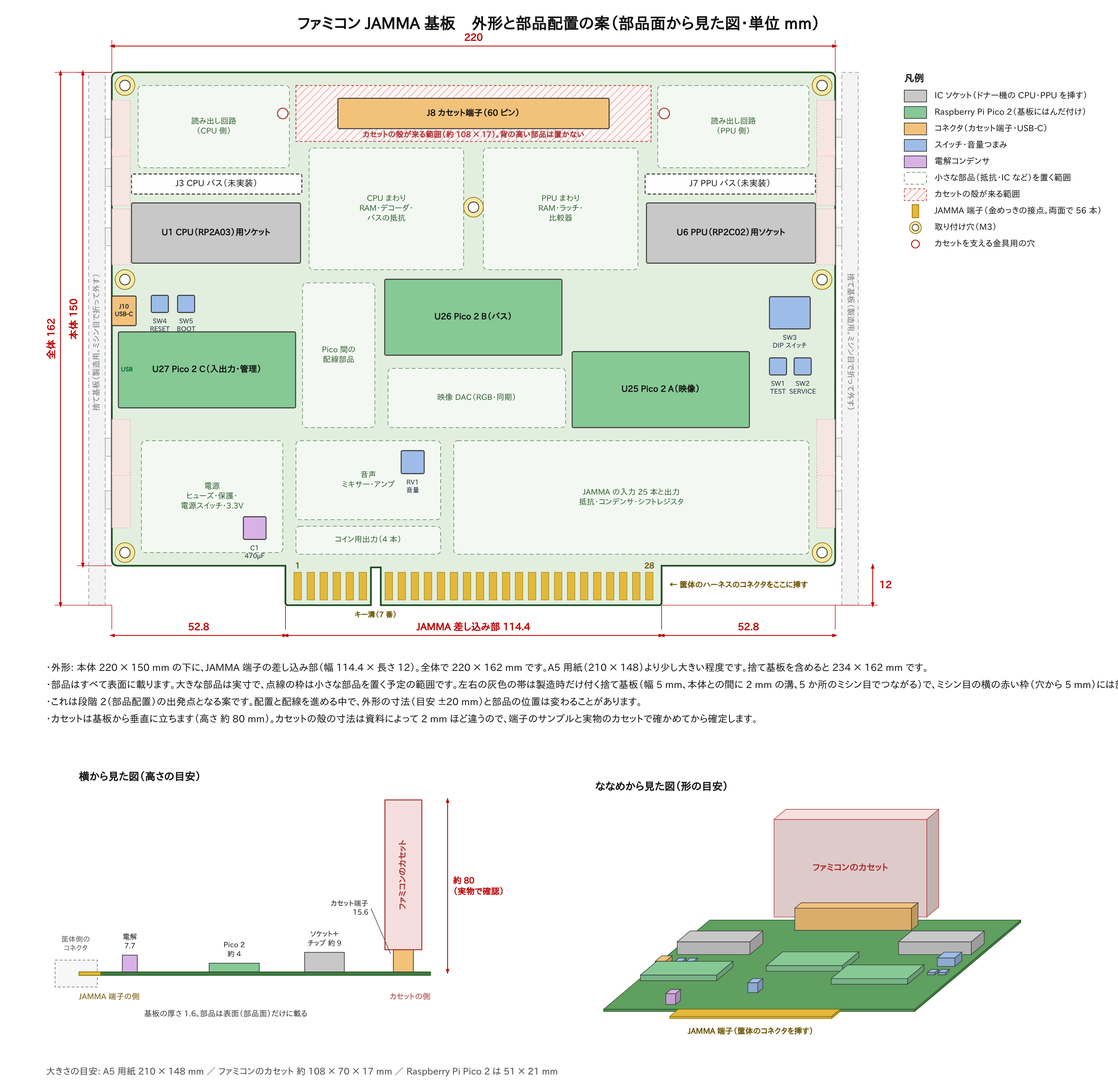
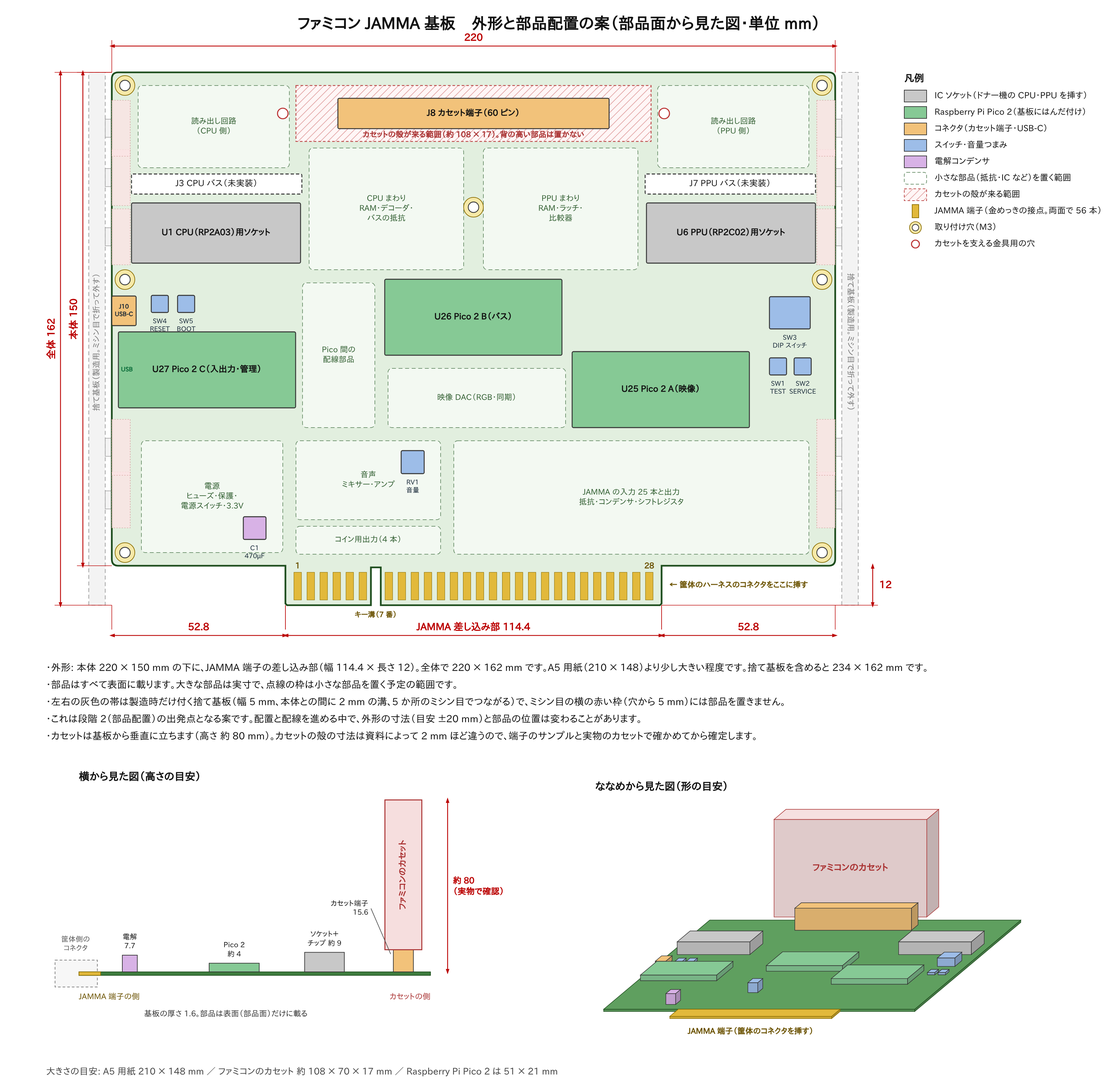
Ordering: add the GrokBOT guide for the JLCPCB support questions
- ordering/jlcpcb_question_guide.html (package file 04): for each of
  the 18 questions, what it asks, why, what a sufficient answer is,
  what counts as a gap, and what to report; how to sort replies, the
  fixed English lines for re-asking (at most twice), common replies
  and how to handle them, what not to do, the report format and a
  glossary of the English terms in JLCPCB's replies.
- Instruction (01, prepared version 5): read 04 before sending the
  questions; re-asks use 04's fixed lines; the folder table lists 04,
  the new board picture 11 and the old-version folder.
- Owner memo (00): hand 01-04, 10 and 11 to Grok; the version check
  covers 01, 02 and 04; the old set moves to a zz_ folder.
- make_grok_package.py writes 04 and 11.
- Floor-plan drawing: a note line that ran off the page is split.
- README and the record of the owner's instructions (18th) updated.

Claude-Session: https://claude.ai/code/session_01HirDBfbHsen2KWvmaXXpSD

Changed region(s): [[0.0624, 0.6205, 0.7171, 0.6825], [0.9976, 0.6205, 1.0, 0.6515]]

diff --git a/hardware/famicom-jamma/ordering/jlcpcb_question_guide.html b/hardware/famicom-jamma/ordering/jlcpcb_question_guide.html
@@ -1,0 +1,212 @@
+<html>
+<head><meta charset="utf-8"><title>04 JLCPCB への質問の手引き</title></head>
+<body>
+<h1>JLCPCB への事前質問の手引き（依頼 1）　何を、なぜ、どう聞くか　ファミコンアーキテクチャー基盤 rev 0.3</h1>
+<p>版: 2026-11-16。「03_【Grok用】JLCPCBへの質問文（英語）.txt」の 2026-11-16 版（質問の番号 1a〜1f、2a〜2e、3a〜3e、4、5）に合わせて書いています。</p>
+
+<h2>0. この手引きの使い方</h2>
+<ul>
+<li>この文書は、「01_【Grok用】発注代行の指示書」の依頼 1（5 章）を詳しくしたものです。<b>01 と食い違うときは 01 に従い</b>、食い違いを依頼者に報告します。</li>
+<li>読む順は、01 → 03 → この 04 です。</li>
+<li>JLCPCB に送るのは 03 の英文だけです。この 04 は送りません。JLCPCB への文に、この 04 の日本語の説明を訳して足すこともしません。</li>
+<li>03 の英文は、書き換えない、足さない、削らない。英文を読んで「こう言い換えたほうが伝わる」と思っても、変えずに送ります。言い換えると、設計者が回答を読み違えるもとになります。</li>
+<li>この文書の 3 章は、質問ごとに「何を聞いているか」「なぜ聞くか」「十分な答え」「足りない答え」「報告に書くこと」をまとめたものです。回答が来たら、3 章と見比べて、聞き直すかどうかを決めます（4 章）。</li>
+<li>GrokBOT が判断しなくてよいこと: 回答を受けて設計をどう変えるか、どの選択肢を選ぶか、費用が見合うか。これらは設計者と依頼者が決めます。GrokBOT は、答えが十分かどうかを判定し、全文を報告するところまでです。</li>
+</ul>
+
+<h2>1. 送る前に確かめること</h2>
+<ol>
+<li>03 の 2 行目の版が、01 の 2 行目の版と同じであること。違えば<b>止まって</b>、ファイル名を依頼者に伝える。</li>
+<li>03 に、質問の番号が 18 個あること。1a〜1f（6 個）、2a〜2e（5 個）、3a〜3e（5 個）、4、5。足りなければ<b>止まる</b>（古い版のおそれ）。</li>
+<li>送り先: メール（support@jlcpcb.com）。メールが使えないときだけ、JLCPCB のサイトのチャットを使う（01 の 5 章）。</li>
+<li>送り元: 依頼者に指示されたメールアドレス。決まっていなければ<b>止まって</b>聞く。</li>
+<li>件名: 03 の 1 行目の「Subject:」のあとの文。本文: 03 の「Hello,」から最後の「Thank you very much for your help.」まで。署名を付ける場合は、依頼者が指示した名前だけ。</li>
+<li>ファイルは添付しない。図面、ガーバー、画像、この 04、ほかの文書も送らない（01 の 3 章）。</li>
+<li>送った日時、送り先、件名を記録する（6 章）。</li>
+</ol>
+<p>チャットで送るときは、03 の本文を一度に貼れなければ、番号の順に区切って貼ってよい（文は変えない）。会話の全文を保存する。JLCPCB から「メールかチケットで送ってほしい」と言われたら、そのとおりにメールで送り直してよい。</p>
+
+<h2>2. なぜ今これを聞くのか</h2>
+<p>この基板は、部品をすべて JLCPCB に実装してもらいます。そのうえで、次の 3 つは JLCPCB の公開ページだけでは決まらず、答えによって基板の形、部品の置き方、発注画面の選び方、費用が変わります。設計者は、この回答を待ってから部品の配置（段階 2-2b）を決めます。</p>
+<ul>
+<li><b>Pico 2 の実装</b>（質問 1）: モジュールの裏側のパッドまで、機械とリフローではんだ付けしてもらえるか。付かないと USB とボタンが使えない。</li>
+<li><b>挿入部品</b>（質問 2）: ソケットや端子を、金フィンガーのある基板にどう付けるか。</li>
+<li><b>捨て基板と金フィンガーの面取り</b>（質問 3 と 5）: 設計者が自分で描いた捨て基板（左右のレール）でよいか、面取りが正しくできるか、発注画面で何を選ぶか。</li>
+</ul>
+<p>答えが<b>必ず要る</b>番号: 1a、1c、1d、2a、3a、3b、3c、3d、3e、5。答えが無いと、配置か発注の画面の選び方が決まりません。<br>
+答えが<b>あると助かる</b>番号: 1b、1e、1f、2b、2c、2d、2e、4。答えが無くても、設計者が安全側で決められます。</p>
+
+<h2>3. 質問ごとの手引き</h2>
+<p>各番号の「十分な答え」に当たらない回答は、4 章の決まった英文で聞き直します（2 回まで）。「報告に書くこと」は、6 章の表の「答えの要点」の欄に、英語の原文を引用して書きます。</p>
+
+<h3>質問 1　Raspberry Pi Pico 2 モジュール（JLCPCB の部品番号 C41407547）</h3>
+<p>1 枚の基板に 3 個（U25、U26、U27）を、モジュールの縁の半円のパッド（キャスタレーション）で、基板の表に平らにはんだ付けします。部品ページには「SMT Assembly」「Standard Only」「X-ray Inspection: Required」と書いてあります。</p>
+<table border="1">
+<tr><th>番号</th><th>何を聞いているか</th><th>なぜ聞くか</th><th>十分な答え</th><th>足りない答え（聞き直す）</th><th>報告に書くこと</th></tr>
+<tr><td>1a</td><td>モジュールは機械で載せてリフローではんだ付けするのか、手はんだか</td><td>モジュールの裏のパッドは、手はんだでは付かない（1c）。リフローでないと、この基板は動かない</td><td>「machine placement」「reflow」などと、リフローで付けるとはっきり書いてある</td><td>「Standard PCBA に対応している」とだけ。「状況による（it depends）」とだけ。手はんだとリフローのどちらか書いていない</td><td>リフローか手はんだか。追加の作業や料金の条件があれば、その文</td></tr>
+<tr><td>1b</td><td>基板に描くパッドの形（ランドパターン）。Raspberry Pi 公式の形（縁の 40 パッド、端のデバッグ用 3 パッド、裏の 6 パッド）でよいか</td><td>基板上のパッドの形が決まる</td><td>「公式の形でよい」、または JLCPCB が使ってほしい形（ファイルかリンク）</td><td>形について何も書いていない</td><td>可否と、指定の形。ファイルが付いていたら、60 のフォルダに保存し、ファイル名を書く（開いて手を加えない）</td></tr>
+<tr><td>1c</td><td>裏の丸いパッドのうち、モジュールの TP1〜TP6 の 6 個に、はんだの型（ステンシル）の穴が開き、同じリフローで付くか。TP7 にはんだを印刷しないか</td><td>U27 では TP2・TP3（USB）と TP6（BOOT ボタン）を配線に使う。付かないと USB とボタンが使えない。TP7 には基板側に何も無い</td><td>6 個に開口があり同じリフローで付く、TP7 には印刷しない、と両方が書いてある</td><td>6 個のことだけ、または TP7 のことだけ。「TP1〜TP20」と混同している（質問文の TP1〜TP20 は基板の試験用パッドで、モジュールの TP1〜TP6 とは別）</td><td>6 個に付くか。TP7 に印刷しないか</td></tr>
+<tr><td>1d</td><td>縁の 40 パッドのステンシルの開口を、Raspberry Pi のデータシートの 3.8 × 2.2 mm にするか。標準でしないなら、発注の備考で頼めばしてもらえるか。端のデバッグ用 3 パッドの開口は</td><td>はんだの量が決まる。少ないと付きが悪い。答えによって、発注の備考の英文（02 の 4 章）が変わる</td><td>「標準で 3.8 × 2.2」か「備考で頼めば 3.8 × 2.2」か「しない」のどれか。デバッグ用 3 パッドの開口の寸法か扱い</td><td>40 パッドの開口について可否が無い。デバッグ用 3 パッドに触れていない</td><td>40 パッドの開口（標準か、備考で頼むか、できないか）。3 パッドの開口</td></tr>
+<tr><td>1e</td><td>X 線検査（11〜50 個は 1 個 0.82 米ドル）は、モジュール 1 個ごとか（5 枚なら 15 個）。X 線の画像をもらえるか。はんだ付けの前作業（Pre-reflow Soldering）や治具の料金がかかるか</td><td>費用の見積もりが変わる。画像があれば、裏のパッドが付いたかを届く前に確かめられる</td><td>数え方（1 個ごとか 1 枚ごとか）、画像の可否、前作業と治具の料金の有無（あれば金額）</td><td>3 つのうちどれかが無い</td><td>3 つそれぞれ。金額は原文のまま</td></tr>
+<tr><td>1f</td><td>この部品は定期的に入荷するか。17 個を先に買っておく場合、歩留まり用の予備は要るか。製造日のコード（date code）や、マイコン RP2350 の版（A2 か A4）を教えてもらえるか</td><td>Pico 2 の先行確保（依頼 3）の参考。マイコンの版によって、ファームウェアで気をつける点が変わる</td><td>分かる範囲の答え。「分からない」も答えとして受け取る</td><td>まったく触れていない</td><td>入荷、予備の数、date code、版。この答えだけで Pico 2 を買わない（01 の 7 章）</td></tr>
+</table>
+
+<h3>質問 2　挿入部品（足を穴に通してはんだ付けする部品）</h3>
+<p>同じ基板に付ける挿入部品は、40 ピンの IC ソケット 2 個（C2874018）、60 ピンのカセット端子 1 個（C5173310、高さ 15.6 mm）、4 回路の DIP スイッチ 1 個（C92645）、半固定抵抗 1 個（C118956）です。JLCPCB の部品ページでは、どれも「Wave Soldering」と書いてあります。</p>
+<table border="1">
+<tr><th>番号</th><th>何を聞いているか</th><th>なぜ聞くか</th><th>十分な答え</th><th>足りない答え（聞き直す）</th><th>報告に書くこと</th></tr>
+<tr><td>2a</td><td>面取りした金フィンガーのある基板に、これらを付けられるか。はんだ付けの間、金フィンガーをどう守るか（テープ、治具）。治具は有料か</td><td>金フィンガーにはんだが付くと、筐体のコネクタに挿せない</td><td>付けられるか、守り方、治具の料金（あれば金額）</td><td>守り方か料金が無い</td><td>3 つそれぞれ</td></tr>
+<tr><td>2b</td><td>挿入部品と、金フィンガーの辺・基板の縁・捨て基板の間に要る距離。部品の高さの上限</td><td>部品を置ける範囲が決まる</td><td>mm の数字（または「制限なし」）。高さの上限か「なし」</td><td>数字が無い（「十分に離して」だけ）</td><td>距離（mm）と高さの上限（mm）。原文のまま</td></tr>
+<tr><td>2c</td><td>この数量では手はんだかウェーブはんだか。ソケットと端子の接点にフラックスが入らないようにするか、洗浄するか</td><td>接点の汚れは、チップやカセットの接触不良のもと</td><td>はんだ付けの方法と、フラックスの扱い</td><td>どちらかが無い</td><td>方法と扱い</td></tr>
+<tr><td>2d</td><td>部品の装着料（feeder loading fee）は、挿入部品にもかかるか</td><td>費用の見積もりが変わる（4 種で 6.12 米ドル）</td><td>かかるか、かからないか</td><td>触れていない</td><td>かかるか（金額があれば原文）</td></tr>
+<tr><td>2e</td><td>挿入部品の足を、裏で切るか。半固定抵抗の足は 4.4 mm 以上出る</td><td>裏に長く出た足は、筐体への取り付けや置き場所でじゃまになることがある</td><td>切るか、切らないか、頼めるか（料金があれば金額）</td><td>触れていない</td><td>切るかと条件</td></tr>
+</table>
+
+<h3>質問 3　捨て基板（edge rails）、治具穴（tooling holes）、位置合わせマーク（fiducials）</h3>
+<p>Standard PCBA では、捨て基板と位置合わせマークが要ります。JLCPCB に付けてもらうと、金フィンガーの辺にも付き、面取りができなくなるおそれがあります。そこで設計者が自分で描きました。</p>
+<ul>
+<li>捨て基板は、金フィンガーの辺と直角な左右の 2 辺に、幅 5 mm で付けた。</li>
+<li>本体とは、幅 2 mm の溝と、片側 5 か所のつなぎ（ミシン目）でつながる。</li>
+<li>治具穴（2.0 mm）は 4 個、位置合わせマークは 3 個。</li>
+<li>大きさは捨て基板を含めて 234 × 162 mm。</li>
+</ul>
+<p>質問 3 の答えは、発注の画面の選び方（02 の 3 章・4 章）に直接かかわります。<b>3a〜3e は、どれも答えが必ず要ります。</b></p>
+<table border="1">
+<tr><th>番号</th><th>何を聞いているか</th><th>なぜ聞くか</th><th>十分な答え</th><th>足りない答え（聞き直す）</th><th>報告に書くこと</th></tr>
+<tr><td>3a</td><td>この捨て基板で、注文画面の「Edge Rails/Fiducials: Added by Customer」（と「Tooling holes: Added by Customer」）を選んでよいか。とくに次の 3 点。<br>(1) レールの端が、つなぎから先で片持ちになる（下が約 29 mm、上が約 14 mm。下は約 26 mm まで縮められる）。実装の機械や面取りの機械で問題ないか。<br>(2) 治具穴 4 個は、どれも片持ちの端にあり、両側に 1.5 mm しかレールが残らない（内側は溝を削った縁）。折れないか。<br>(3) 位置合わせマークの中心は、外側の縁から 3.85 mm（JLCPCB の能力表と図のとおり）。マークの周りの開口の縁は 2.85 mm になる。JLCPCB の別の記事は「開口を含めて 3.35 mm」とする。3.85 mm でよいか、4.35 mm に動かすべきか。マークは溝の端からも 2.8 mm しか離れていないが、よいか</td><td>答えによって、レールの長さ、治具穴とマークの位置を描き直す。「合わない」と見られると、JLCPCB が断りなく捨て基板を付け直すことがある（部品実装の規約 5.5）</td><td>全体の可否と、(1)(2)(3) のそれぞれに「よい」か、直す内容（数字つき）</td><td>「Acceptable」などの一言だけで、(1)(2)(3) に触れていない。3 点のうち一部だけ</td><td>全体の可否と 3 点それぞれ。直す内容は数字ごと原文で</td></tr>
+<tr><td>3b</td><td>注文画面の Delivery Format は「Single PCB」か「Panel by Customer」（縦横 1 × 1）か。「Different Design」に何を入れるか。2 本のレールが別の設計と数えられるか（PCB の料金と、部品実装の段取り料「25.56 米ドル ×（設計の数 − 1）」）</td><td>02 の 3 章で、Delivery Format と Different Design は「この 3b の回答のとおり。回答が無ければ止まる」としている。別の設計と数えられると、段取り料が最大 51.12 米ドル増える</td><td>Delivery Format の選択、Different Design に入れる数、料金が増えるかどうか（増えるなら金額）の 3 つ</td><td>3 つのうちどれかが無い。「どちらでもよい」とだけ</td><td>3 つそれぞれ。原文のまま</td></tr>
+<tr><td>3c</td><td>レールを、溝の代わりに V カットでつないでも（溝なし、230 × 162 mm）、金フィンガーは面取りされるか（JLCPCB のページには「V カットの面付けではフィンガーを面取りできない」とある。この基板では、フィンガーは外周に残る）</td><td>V カットにできれば、溝とミシン目が要らず、片持ちの端も無くなる。どちらにするかは設計者が決める</td><td>「V カットでも面取りできる」か「できない」かの、はっきりした答え</td><td>「V カットも使える」とだけ書き、面取りに触れていない</td><td>面取りの可否と条件</td></tr>
+<tr><td>3d</td><td>金フィンガーの銅は、基板の先端から 1.6 mm 離してある。JLCPCB のページの値（30° で約 1.13 mm）に、角度・板厚・外形の公差を最悪に重ねると約 1.52〜1.72 mm になる。1.6 mm で足りるか。フィンガーを短くされることはないか</td><td>面取りで削られる範囲に銅があると、JLCPCB の技術者がフィンガーを短くすることがある。短くなると筐体のコネクタとの接触に響く</td><td>「1.6 mm で足りる」か、必要な距離（mm）</td><td>「技術者が確認・調整する」とだけ。数字も可否も無い</td><td>足りるかどうか。必要な距離があれば数字</td></tr>
+<tr><td>3e</td><td>面取りの機械は、基板を溝に通して辺の全体を削る（JLCPCB の説明）。この基板の金フィンガーの辺は、幅 220 mm の本体から 12 mm 突き出たタング（幅 114.4 mm）の先で、左右のレールの端も同じ線にある（タングの両側に約 55 mm 離れて）。タングの先だけを面取りできるか。レールの端をその線から離す必要があるか</td><td>面取りできない形なら、レールの下端を短くするなど、設計を変える</td><td>タングの先だけを面取りできるかと、レールの端をどうするか（そのままでよいか、何 mm 離すか）</td><td>どちらかが無い</td><td>2 つそれぞれ</td></tr>
+</table>
+
+<h3>質問 4　両面の実装と納期</h3>
+<table border="1">
+<tr><th>番号</th><th>何を聞いているか</th><th>なぜ聞くか</th><th>十分な答え</th><th>足りない答え（聞き直す）</th><th>報告に書くこと</th></tr>
+<tr><td>4</td><td>ここまでの中に、両面の実装が要るものや、納期が延びるものがあるか</td><td>部品はすべて表に載せる設計。裏の作業が要ると、費用と納期が変わる</td><td>両面が要るかと、納期への影響</td><td>触れていない</td><td>2 つそれぞれ</td></tr>
+</table>
+
+<h3>質問 5　金フィンガーの部分の寸法の公差</h3>
+<table border="1">
+<tr><th>番号</th><th>何を聞いているか</th><th>なぜ聞くか</th><th>十分な答え</th><th>足りない答え（聞き直す）</th><th>報告に書くこと</th></tr>
+<tr><td>5</td><td>金フィンガーの部分の板厚を 1.6 ± 0.15 mm に、タングの幅を 114.4〜114.6 mm に収められるか。通常の外形の公差 ±0.2 mm では 114.2 mm になりうる。オプションが要るなら、その名前と費用。たとえば、タングを 114.5 mm に描き直し、高精度の外形（±0.1 mm）を頼むべきか</td><td>筐体側のコネクタは、この範囲の基板のために作られている。外れると、挿さらないか、接触が悪くなる</td><td>板厚と幅のそれぞれに可否。オプションが要るなら、その名前と費用</td><td>板厚か幅のどちらかが無い。オプションの名前か費用が無い</td><td>板厚と幅の可否、オプションの名前と費用（原文のまま）</td></tr>
+</table>
+
+<h2>4. 回答を受けたら</h2>
+<h3>4.1 番号ごとに分ける</h3>
+<p>回答を、18 個の番号ごとに次のどれかに分けます（6 章の表に書く）。</p>
+<table border="1">
+<tr><th>分け方</th><th>当てはまるもの</th><th>どうするか</th></tr>
+<tr><td>答えあり</td><td>3 章の「十分な答え」に当たる</td><td>原文を引用して報告する</td></tr>
+<tr><td>一部だけ</td><td>3 章の「足りない答え」に当たる（項目の一部だけ、数字が無い）</td><td>4.2 の英文で聞き直す</td></tr>
+<tr><td>答えなし</td><td>その番号に触れていない</td><td>4.2 の英文で聞き直す</td></tr>
+<tr><td>リンクだけ</td><td>答えの代わりに JLCPCB のページのリンクだけがある</td><td>そのページを開き、その番号に当たる文があれば引用して報告する（聞き直さない）。当たる文が無ければ、4.2 の英文で聞き直す</td></tr>
+<tr><td>質問・提案・要求</td><td>JLCPCB からの質問、別のやり方や部品の提案、ファイルの要求、見積もりや支払いの案内</td><td>答えない、承諾しない、ファイルを送らない、支払わない。全文を依頼者に報告して、指示を待つ（01 の 3 章）</td></tr>
+</table>
+<p>判断に迷う番号は、「一部だけ」として扱い、迷った理由を報告に書きます。</p>
+
+<h3>4.2 聞き直し（2 回まで）</h3>
+<ul>
+<li>聞き直しは 2 回までです（01 の 5 章）。1 回目の聞き直しでは、答えの足りない番号を<b>まとめて 1 通</b>で聞きます。2 回目も同じです。</li>
+<li>聞き直しのメールは、同じメールのやりとりへの返信として送ります。件名は変えません。</li>
+<li>本文は、次の順に並べます。
+  <ol>
+  <li>最初の 1 行: 「Thank you for your reply. Could you please answer the following questions from my first message?」</li>
+  <li>足りない番号ごとに、03 の<b>その番号の英文をそのまま</b>貼る。番号の頭（3a など）も付ける。質問 3a、5 のように前置きの段落（3) や 1) の段落）が要る番号は、その段落も貼る。</li>
+  <li>番号ごとに、下の表の決まった 1 行を、貼った英文のすぐ下に足す。</li>
+  <li>最後の 1 行: 「Thank you very much.」</li>
+  </ol></li>
+<li>下の表に無い文は書きません。自分の言葉で説明したり、言い換えたりしません。</li>
+</ul>
+<table border="1">
+<tr><th>足りないもの</th><th>足す 1 行（英文はこのまま）</th></tr>
+<tr><td>その番号に触れていない</td><td>Could you please answer question [番号] above?</td></tr>
+<tr><td>一部にしか答えていない（3a の 3 点など、項目がいくつかある番号）</td><td>Could you please answer each point of question [番号] above?</td></tr>
+<tr><td>数字が要るのに無い（2b、3a、3d、3e、5 など）</td><td>Could you please give the values in millimetres for question [番号] above?</td></tr>
+<tr><td>料金が要るのに無い（1e、2a、2d、2e、3b、5）</td><td>Could you please tell me the fees, if any, for question [番号] above?</td></tr>
+</table>
+<p>[番号] には 1c、3a などの番号だけを入れます。</p>
+<p>2 回聞き直しても答えの足りない番号は、それ以上聞きません。報告に「2 回聞き直したが答えなし」と書きます。2 章の「答えが必ず要る」番号でこうなったときは、報告の最初にそのことを書きます。</p>
+
+<h3>4.3 待つ時間</h3>
+<ul>
+<li>送ってから 2 営業日たっても回答が無ければ、そのことを報告し、依頼者の指示を待ちます（01 の 5 章）。JLCPCB のサポートの受付は、中国時間（GMT+8）の月〜金は 24 時間、土は 9〜18 時です。</li>
+<li>聞き直しへの回答も、同じく 2 営業日を目安にします。</li>
+</ul>
+
+<h3>4.4 よくある回答と、その扱い</h3>
+<table border="1">
+<tr><th>回答の例</th><th>扱い</th></tr>
+<tr><td>「Please upload your Gerber files and we will check.」（ファイルを送ってほしい）</td><td>送らない。製造データはまだありません。全文を報告する（要求として分ける）。ほかの番号の答えはそのまま分ける</td></tr>
+<tr><td>「Our engineers will review it when you place the order.」（注文のときに技術者が見る）</td><td>その番号は「答えなし」。聞き直す。注文はしない</td></tr>
+<tr><td>「We suggest adding edge rails on the top and bottom.」など、別のやり方の提案</td><td>承諾しない。「質問・提案・要求」に分けて全文を報告する。その番号の答えが無ければ、聞き直す</td></tr>
+<tr><td>見積もり、クーポン、支払いのリンク</td><td>支払わない。報告する</td></tr>
+<tr><td>担当者が別の部署に回すと言う</td><td>待つ。回された先からの回答も全文を報告する</td></tr>
+<tr><td>英語以外（中国語など）の回答</td><td>原文のまま保存し、報告には原文と訳を両方書く。訳には「GrokBOT の訳」と書く</td></tr>
+</table>
+
+<h2>5. してはいけないこと（01 の 3 章から、依頼 1 にかかわるもの）</h2>
+<ul>
+<li>基板を注文しない。見積もりの画面で注文を確定しない。支払わない（依頼 1 には支払いが無い）。</li>
+<li>JLCPCB からの質問に答えない。提案を承諾しない。ファイル（設計データ、画像、この手引き）を送らない。全文を依頼者に報告して、指示を待つ。</li>
+<li>03 の英文と 4.2 の決まった文のほかに、文を書かない。設計の説明を足さない。</li>
+<li>部品を別の品番に替えると答えない。代わりの部品の候補も選ばない。</li>
+<li>依頼者の名前、住所、電話番号、メールアドレス、ログイン情報、注文番号を、記録や画面の写しに残さない（01 の 3 章の 3）。</li>
+<li>この手引きや 01〜03 を書き換えない。おかしいと思ったら依頼者に報告する。</li>
+</ul>
+
+<h2>6. 報告の形</h2>
+<p>報告は日本語で、次の順に書きます。記録は「60_注文の記録（Grokが記録を置く）」フォルダに、日付を付けたテキストで残します（例: 2026-11-17_依頼1_JLCPCBの回答.txt）。</p>
+<ol>
+<li><b>最初に知らせること</b>: 2 回聞き直しても答えの無い「必ず要る」番号。JLCPCB からの質問・提案・要求があれば、その一覧。</li>
+<li><b>送ったこと</b>: 送った日時、送り先（support@jlcpcb.com など）、件名、使った窓口（メールかチャットか）、聞き直した日時と番号。</li>
+<li><b>番号ごとの表</b>: 次の 4 列。18 個の番号を、1a から 5 まで順に全部並べる。
+  <table border="1">
+  <tr><th>番号</th><th>分け方（4.1）</th><th>答えの要点（英語の原文を引用）</th><th>聞き直した回数</th></tr>
+  <tr><td>1a</td><td>答えあり</td><td>"..."</td><td>0</td></tr>
+  </table></li>
+<li><b>JLCPCB からの質問・提案・要求</b>: 全文。</li>
+<li><b>回答の全文</b>: 受け取った順に、英語のまま全部。チャットなら会話の全文。要約だけにしない。</li>
+<li><b>保存したもの</b>: 60 のフォルダに置いたファイルの名前（回答の全文、JLCPCB から届いたファイル）。</li>
+</ol>
+<p>依頼者は、この報告をそのまま設計者（Claude）に渡します。設計者が番号ごとに読み、設計と発注の文書に反映します。</p>
+
+<h2>7. 回答に出てくる英語</h2>
+<table border="1">
+<tr><th>英語</th><th>この基板での意味</th></tr>
+<tr><td>Standard PCBA</td><td>JLCPCB の部品実装の種類。金フィンガーのある基板はこれだけ</td></tr>
+<tr><td>edge rails、process edges、tooling edges</td><td>捨て基板（左右のレール）</td></tr>
+<tr><td>tooling holes</td><td>治具穴（レールの 2.0 mm の穴 4 個）</td></tr>
+<tr><td>fiducials、fiducial marks</td><td>位置合わせマーク（レールの銅の丸 3 個）</td></tr>
+<tr><td>mouse bites、stamp holes、breakaway tabs</td><td>ミシン目とつなぎ</td></tr>
+<tr><td>V-cut、V-score</td><td>V カット（溝を切らずに、V 字の切れ目で折る方法）</td></tr>
+<tr><td>chamfer、bevel</td><td>金フィンガーの面取り</td></tr>
+<tr><td>copper setback</td><td>先端から銅を離す距離（3d）</td></tr>
+<tr><td>Delivery Format、Single PCB、Panel by Customer、Panel by JLCPCB</td><td>注文画面の面付けの選択（3b）</td></tr>
+<tr><td>Different Design</td><td>注文画面の、設計の数の欄（3b）</td></tr>
+<tr><td>setup fee</td><td>部品実装の段取り料</td></tr>
+<tr><td>feeder loading fee</td><td>部品の種類ごとの装着料（2d）</td></tr>
+<tr><td>stencil、aperture</td><td>はんだを印刷する型と、その穴（1c、1d）</td></tr>
+<tr><td>castellated pads、castellated holes</td><td>モジュールの縁の半円のパッド</td></tr>
+<tr><td>X-ray inspection</td><td>X 線検査（1e）</td></tr>
+<tr><td>pre-reflow soldering、fixture</td><td>はんだ付けの前作業、治具（1e、2a）</td></tr>
+<tr><td>wave soldering、selective soldering、hand soldering</td><td>挿入部品のはんだ付けの方法（2c）</td></tr>
+<tr><td>lead trimming、cut leads</td><td>挿入部品の足を切ること（2e）</td></tr>
+<tr><td>attrition</td><td>歩留まり用に多めに必要な部品（1f）</td></tr>
+<tr><td>date code</td><td>部品の製造日のコード（1f）</td></tr>
+<tr><td>high-precision outline、routing tolerance</td><td>外形加工の精度（5）</td></tr>
+<tr><td>remarks</td><td>注文画面の備考欄</td></tr>
+</table>
+
+<h2>8. 根拠にした資料</h2>
+<ul>
+<li>この基板の質問文: 「03_【Grok用】JLCPCBへの質問文（英語）.txt」（2026-11-16 版）</li>
+<li>依頼 1 の手順と、してはいけないこと: 「01_【Grok用】発注代行の指示書」の 3 章・5 章</li>
+<li>発注の画面の選び方（Delivery Format、Different Design、備考）: 「02_【Grok用】発注のノウハウとバグチェック」の 3 章・4 章</li>
+<li>JLCPCB 部品実装の料金表（2026-10-22 更新。X 線検査、段取り料）: https://jlcpcb.com/help/article/pcb-assembly-price</li>
+<li>JLCPCB 部品実装の規約（2026-09-09 更新。5.5 捨て基板などが合わないときは JLCPCB が足すか直す）: https://jlcpcb.com/help/article/terms-and-conditions-of-jlcpcb-assembly-service</li>
+<li>JLCPCB 金フィンガー（2026-11-10 更新。V カットの面付けでは面取りできない、銅の後退の値）: https://jlcpcb.com/help/article/jlcpcb-gold-fingers</li>
+<li>JLCPCB 金フィンガーの面取りの説明（2025-04-24 更新。溝に通して辺の全体を面取りする）: https://jlcpcb.com/help/article/instructions-for-chamfering-gold-fingers</li>
+</ul>
+</body>
+</html>

diff --git a/hardware/famicom-jamma/ordering/grok_instruction.html b/hardware/famicom-jamma/ordering/grok_instruction.html
@@ -11,7 +11,13 @@
 </ul>
 <p>ほかの文書は、この文書が指示した場面でだけ読んでください。「止まる」とある所では、必ず依頼者の返事を待ってください。</p>
 <p>題名に「準備版」とある間は、基板そのもの（PCB の製造と部品の実装）は発注しません。</p>
-<p>版: 準備版 4（2026-11-16）。前の版（準備版 3、2026-11-14）からの変更は次のとおりです。</p>
+<p>版: 準備版 5（2026-11-16）。前の版（準備版 4、同じ日）からの変更は次のとおりです。</p>
+<ul>
+<li>依頼 1 の手引き「04_【Grok用】JLCPCBへの質問の手引き（何を・なぜ・どう聞くか）.txt」を足した。質問ごとに、何を聞いているか、なぜ聞くか、十分な答えと足りない答え、聞き直しの決まった英文、報告の形を書いた。</li>
+<li>基板の外形の図「11_【図】基板の外形（捨て基板つき・上から見た図）.png」を足した。</li>
+<li>前の一式（2026-11-14）は、消さずに「zz_旧版（使わない）_2026-11-14」フォルダに移した。そのフォルダのファイルは読まない、使わない。</li>
+</ul>
+<p>準備版 4（2026-11-16）での変更は次のとおりです。</p>
 <ul>
 <li>設計者が、基板の左右 2 辺に捨て基板（ミシン目でつなぐレール。治具穴と位置合わせマーク付き）を描いた。基板の大きさは捨て基板を含めて 234 × 162 mm になった。</li>
 <li>発注の備考（PCB 側と部品実装側）に、その捨て基板をそのまま使うよう頼む英文を足した（ノウハウ集の 3 章・4 章）。</li>
@@ -33,7 +39,7 @@
 <table border="1">
 <tr><th>項目</th><th>状態</th></tr>
 <tr><td>回路設計</td><td>rev 0.3 で完了。設計者以外による机上の見直しを 3 回行った。実物での確認はまだ無い</td></tr>
-<tr><td>基板の外形と部品配置</td><td>案だけある（10_【図】基板の外形と配置の案.png）。段階 2 で確定する</td></tr>
+<tr><td>基板の外形と部品配置</td><td>外形（JAMMA の差し込み部、取り付け穴、捨て基板、位置合わせマーク）は作成済み（11_【図】基板の外形（捨て基板つき・上から見た図）.png）。部品の配置は案だけ（10_【図】基板の外形と配置の案.png）で、JLCPCB の回答とサンプルの確認のあと、段階 2 で確定する</td></tr>
 <tr><td>配線と製造データ</td><td>まだ無い。段階 3 で「50_製造データ（段階3で入る）」フォルダに入る</td></tr>
 <tr><td>基板の発注（PCB の製造と部品の実装）</td><td><b>まだできない</b></td></tr>
 </table>
@@ -98,6 +104,7 @@
 <h2>5. 依頼 1　JLCPCB のサポートへの事前質問（承認済み）</h2>
 <p>この基板は、ソケットと Raspberry Pi Pico 2 を含めて、部品をすべて JLCPCB に実装してもらいます。次の点は JLCPCB の公開ページからは分からず、答えによって基板の設計と費用が変わります。そのため、部品の配置を決める前に確かめます。</p>
 <ol>
+<li>送る前に「04_【Grok用】JLCPCBへの質問の手引き（何を・なぜ・どう聞くか）.txt」を読む。04 には、質問ごとに何を聞いているか、なぜ聞くか、どんな答えなら十分か、回答の分け方、聞き直しの決まった英文、報告の形が書いてある。</li>
 <li>JLCPCB のサポートに、「03_【Grok用】JLCPCBへの質問文（英語）.txt」の英文をそのまま送る。
   <ul>
   <li>窓口はメール（support@jlcpcb.com）を使う。件名は、1 行目の「Subject:」のあとの文。本文は、「Hello,」から最後まで。</li>
@@ -105,7 +112,7 @@
   </ul>
 </li>
 <li>回答の全文を依頼者に報告する。</li>
-<li>答えの無い質問や、あいまいな回答は、その番号だけ聞き直してよい（2 回まで）。聞き直すときは、質問文の該当番号の英文をそのまま送り、「Could you please answer question 1c above?」のように番号だけを添える。自分の言葉で言い換えない。</li>
+<li>答えの無い質問や、あいまいな回答は、その番号だけ聞き直してよい（2 回まで）。聞き直すときは、質問文の該当番号の英文をそのまま送り、04 の 4.2 にある決まった 1 行（「Could you please answer question 1c above?」など）だけを添える。自分の言葉で言い換えない。</li>
 <li>2 営業日たっても回答が無ければ、その旨を報告し、依頼者の指示を待つ。JLCPCB のサポートの受付は、中国時間（GMT+8）の月〜金は 24 時間、土は 9〜18 時。</li>
 <li>回答を受けて、注文したり、提案を承諾したりしない。回答の中で JLCPCB から聞き返されたことにも答えず、依頼者に報告する（3 章の 5）。</li>
 </ol>
@@ -206,11 +213,14 @@
 <tr><td>01_【Grok用】発注代行の指示書（最初に読ませる）.txt</td><td>この文書</td><td>最初に必ず読む</td></tr>
 <tr><td>02_【Grok用】発注のノウハウとバグチェック.txt</td><td>基板を JLCPCB に発注する手順、各段階で確かめること、よくある失敗とその対策</td><td>基板を発注するとき。いまは目を通すだけでよい</td></tr>
 <tr><td>03_【Grok用】JLCPCBへの質問文（英語）.txt</td><td>依頼 1 で送る英文</td><td>依頼 1 のとき</td></tr>
+<tr><td>04_【Grok用】JLCPCBへの質問の手引き（何を・なぜ・どう聞くか）.txt</td><td>依頼 1 の詳しい手引き（質問ごとの説明、回答の分け方、聞き直しの英文、報告の形）。JLCPCB には送らない</td><td>依頼 1 のとき（03 を送る前と、回答を受けたとき）</td></tr>
 <tr><td>10_【図】基板の外形と配置の案.png</td><td>基板の外形と部品配置の案</td><td>依頼者から聞かれたときだけ</td></tr>
+<tr><td>11_【図】基板の外形（捨て基板つき・上から見た図）.png</td><td>作成済みの基板の外形（左右の捨て基板、ミシン目、治具穴、位置合わせマーク、金フィンガー）。KiCad の 3D 表示</td><td>依頼者から聞かれたときだけ。JLCPCB には送らない</td></tr>
 <tr><td>20〜23 の【参考】ファイル</td><td>設計記録（README）、回路図、部品表、費用の内訳</td><td>依頼者から聞かれたときだけ。書き換えない。JLCPCB への回答には使わない</td></tr>
 <tr><td>50_製造データ（段階3で入る）</td><td>ガーバー、部品表、部品の位置の表など。いまは空</td><td>基板を発注するとき（4 章の 3 つがそろってから）</td></tr>
 <tr><td>60_注文の記録（Grokが記録を置く）</td><td>GrokBOT が作業の記録を置く場所</td><td>記録を残すとき</td></tr>
 <tr><td>90・91 の【保管用】zip</td><td>設計データ一式、調査資料と要求の記録</td><td>読まなくてよい</td></tr>
+<tr><td>zz_旧版（使わない）_2026-11-14</td><td>前の一式（2026-11-14 の版）</td><td>読まない、使わない</td></tr>
 </table>
 
 <h2>10. この基板について知っておくこと</h2>

diff --git a/hardware/famicom-jamma/mech/floorplan.py b/hardware/famicom-jamma/mech/floorplan.py
@@ -379,7 +379,8 @@ def build_svg():
     title = "ファミコン JAMMA 基板　外形と部品配置の案（部品面から見た図・単位 mm）"
     notes = [
         "・外形: 本体 220 × 150 mm の下に、JAMMA 端子の差し込み部（幅 114.4 × 長さ 12）。全体で 220 × 162 mm です。A5 用紙（210 × 148）より少し大きい程度です。捨て基板を含めると 234 × 162 mm です。",
-        "・部品はすべて表面に載ります。大きな部品は実寸で、点線の枠は小さな部品を置く予定の範囲です。左右の灰色の帯は製造時だけ付く捨て基板（幅 5 mm、本体との間に 2 mm の溝、5 か所のミシン目でつながる）で、ミシン目の横の赤い枠（穴から 5 mm）には部品を置きません。",
+        "・部品はすべて表面に載ります。大きな部品は実寸で、点線の枠は小さな部品を置く予定の範囲です。",
+        "・左右の灰色の帯は製造時だけ付く捨て基板（幅 5 mm、本体との間に 2 mm の溝、5 か所のミシン目でつながる）で、ミシン目の横の赤い枠（穴から 5 mm）には部品を置きません。",
         "・これは段階 2（部品配置）の出発点となる案です。配置と配線を進める中で、外形の寸法（目安 ±20 mm）と部品の位置は変わることがあります。",
         "・カセットは基板から垂直に立ちます（高さ 約 80 mm）。カセットの殻の寸法は資料によって 2 mm ほど違うので、端子のサンプルと実物のカセットで確かめてから確定します。",
     ]

diff --git a/hardware/famicom-jamma/ordering/make_grok_package.py b/hardware/famicom-jamma/ordering/make_grok_package.py
@@ -143,7 +143,12 @@ def main():
     write("02_【Grok用】発注のノウハウとバグチェック.txt",
           with_header("ファミコンアーキテクチャー基盤　発注のノウハウとバグチェック", version_text, html_to_text(os.path.join(HERE, "grok_ordering_knowhow.html"))))
     shutil.copy(os.path.join(HERE, "jlcpcb_support_question.txt"), os.path.join(out, "03_【Grok用】JLCPCBへの質問文（英語）.txt"))
+    write("04_【Grok用】JLCPCBへの質問の手引き（何を・なぜ・どう聞くか）.txt",
+          with_header("ファミコンアーキテクチャー基盤　JLCPCB への事前質問の手引き（依頼 1）", version_text,
+                      html_to_text(os.path.join(HERE, "jlcpcb_question_guide.html"))))
     shutil.copy(os.path.join(PROJECT, "mech", "board_outline_plan.png"), os.path.join(out, "10_【図】基板の外形と配置の案.png"))
+    shutil.copy(os.path.join(PROJECT, "out", "board", "fcjamma_board_top.png"),
+                os.path.join(out, "11_【図】基板の外形（捨て基板つき・上から見た図）.png"))
     write("20_【参考】設計記録（README）.txt",
           with_header("ファミコンアーキテクチャー基盤　設計記録（README。設計データの説明）", version_text,
                       open(os.path.join(PROJECT, "README.md"), encoding="utf-8").read()))

diff --git a/research_notes/ファミコン JAMMA 基板 仕様調査/user_requirements.md b/research_notes/ファミコン JAMMA 基板 仕様調査/user_requirements.md
@@ -211,7 +211,7 @@
   端子につながる1枚が他の枚のファームウェアも書き換える方式か、USB ハブ IC を載せる方式になる（5.2 の最後の項目）。
 - **RP2350 は USB からの書き込み機能を書き換え不能な領域に持つ。** 更新に失敗しても、書き込みモードに入り直してやり直せる（raspberry_pi_emulation_path.md）。
 
-## 8. 設計の進め方と実装の範囲（第6回〜第17回・2026-11-11〜16）
+## 8. 設計の進め方と実装の範囲（第6回〜第18回・2026-11-11〜16）
 
 ### 8.1 ユーザー指示の原文
 
@@ -270,6 +270,10 @@
 
 > やって
 
+第18回（2026-11-16。段階 2-2a の報告で「Google ドライブの写しは古いまま。新しくするなら『ドライブも更新して』と言ってください」と伝えたことへの返事）:
+
+> ドライブも更新して。GrokBOTがJLCPCBに何を聞けばいいのかを指示した詳細なメモも入れておいて。
+
 ### 8.2 読み方
 
 - 第6回は、当初の規則が「PCBA は Basic のみ、手はんだは秋月の在庫品」の 2 段構えであることの念押しと読んだ。
@@ -327,6 +331,11 @@
 - 第17回は、申し出た 4 つ（外形、取り付け穴、捨て基板、位置合わせマーク）を、カセット端子のサンプルと JLCPCB の回答を待たずに作ってよいという承認と読んだ（段階 2-2a）。
   はじめは捨て基板を JLCPCB の回答待ちにして基板に入れなかったが、レビューで「JLCPCB に任せると金フィンガーの辺に付きうる」と分かったので、申し出のとおり基板に描いた（左右 2 辺、ミシン目でつなぐ。V カットにするかは JLCPCB の回答で決め直せる）。
   段階 2-1 の報告で勧めた半固定抵抗のサンプルの追加（5 個）は、この返事の対象ではないと読み、行っていない。
+- 第18回は、Google ドライブの「ファミコンアーキテクチャー基盤」の一式を段階 2-2a までの最新の版に入れ替えることと、
+  GrokBOT が依頼 1（JLCPCB への事前質問）で何を、なぜ、どう聞き、回答をどう扱うかを質問ごとに書いた詳しいメモを新しく作って入れることの依頼と読んだ。
+  メモは `hardware/famicom-jamma/ordering/jlcpcb_question_guide.html` に書き、一式の「04_【Grok用】JLCPCBへの質問の手引き」とした。
+  ドライブのファイルは中身を書き換えられないので、古い一式は消さずに「zz_旧版（使わない）_2026-11-14」フォルダへ移し、新しい一式を同じ場所に置いた。
+  半固定抵抗のサンプルの追加は、引き続きこの返事の対象ではないと読み、行っていない。
 
 ## 9. 置き換えられた過去の指示（履歴）
 

diff --git a/hardware/famicom-jamma/README.md b/hardware/famicom-jamma/README.md
@@ -50,7 +50,7 @@
 | `design/board.py` | 基板そのもの（外形、JAMMA のタングとキー溝、捨て基板とミシン目、取り付け穴、治具穴、位置合わせマーク、積層、原点、出力の設定）。`kicad/fcjamma.kicad_pcb` はここから作る |
 | `tools/make_board.py` | `design/board.py` から KiCad の基板ファイルを作り、読み直して実測する（タングとキー溝の寸法と位置、タングの横に基板が無いこと、外形の角と溝の形、フィンガーの範囲、J1 の全ピンのネットと回路図とのつながり、穴、捨て基板・つなぎ・ミシン目、治具穴、位置合わせマーク、外形線の有無、積層、出力の設定、縁から部品までの距離など 142 項目。限界値はコネクタの図面と JLCPCB の値を書き直したもの。`build.py` がシステムの Python で呼び、作業用のフォルダのプロジェクトの中で DRC と回路図との照合までかける。ビルド全体が通ったときだけ、プロジェクトごと `kicad/` に入る） |
 | `out/board/` | 基板の図（`fcjamma_board.svg`）、上から見た 3D の絵（`fcjamma_board_top.png`）、DRC と回路図との照合の結果（`drc.json`。配線の残りはネットごと、まだ置いていない部品は一覧） |
-| `ordering/` | 発注代行（GrokBOT）向けの文書の原稿。`owner_memo.txt`（持ち主用の渡し方のメモ）、`grok_instruction.html`（Grok が最初に読む指示書）、`grok_ordering_knowhow.html`（発注のノウハウとバグチェック）、`jlcpcb_support_question.txt`（JLCPCB への質問文）、`make_grok_package.py`（Google ドライブに上げる一式を作る） |
+| `ordering/` | 発注代行（GrokBOT）向けの文書の原稿。`owner_memo.txt`（持ち主用の渡し方のメモ）、`grok_instruction.html`（Grok が最初に読む指示書）、`grok_ordering_knowhow.html`（発注のノウハウとバグチェック）、`jlcpcb_support_question.txt`（JLCPCB への質問文）、`jlcpcb_question_guide.html`（その質問の手引き。質問ごとに何を・なぜ聞くか、十分な答え、聞き直しの決まった英文、報告の形）、`make_grok_package.py`（Google ドライブに上げる一式を作る） |
 
 ```
 sudo tools/setup_env.sh                      # 初回のみ
